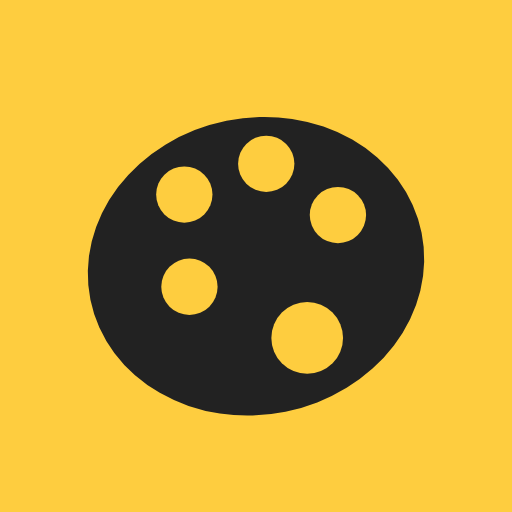
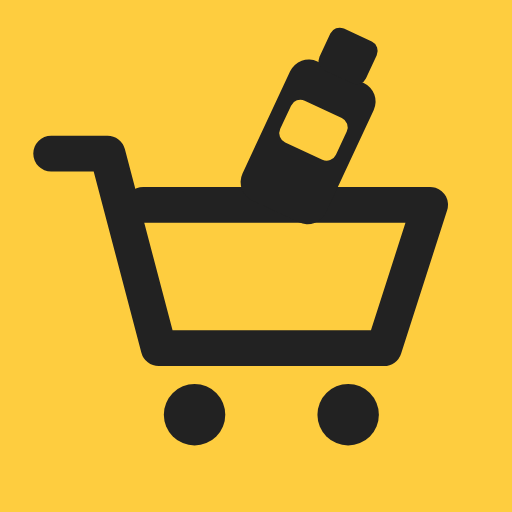
사이트 아이콘을 장바구니+물감 튜브로 변경
Claude-Session: https://claude.ai/code/session_01VRTXh1zyHXDmVWRhom9tDx

Changed region(s): [[0.0625, 0.0312, 0.875, 0.875]]

diff --git a/index.html b/index.html
@@ -4,8 +4,8 @@
 <meta charset="UTF-8">
 <meta name="viewport" content="width=device-width, initial-scale=1">
 <title>자라다 재료 요청</title>
-<link rel="icon" href="icons/favicon-32.png?v=3" sizes="32x32" type="image/png">
-<link rel="apple-touch-icon" href="icons/apple-touch-icon.png?v=3">
+<link rel="icon" href="icons/favicon-32.png?v=4" sizes="32x32" type="image/png">
+<link rel="apple-touch-icon" href="icons/apple-touch-icon.png?v=4">
 <link rel="stylesheet" href="https://cdn.jsdelivr.net/gh/orioncactus/pretendard@v1.3.9/dist/web/static/pretendard.min.css">
 <style>
 :root{
